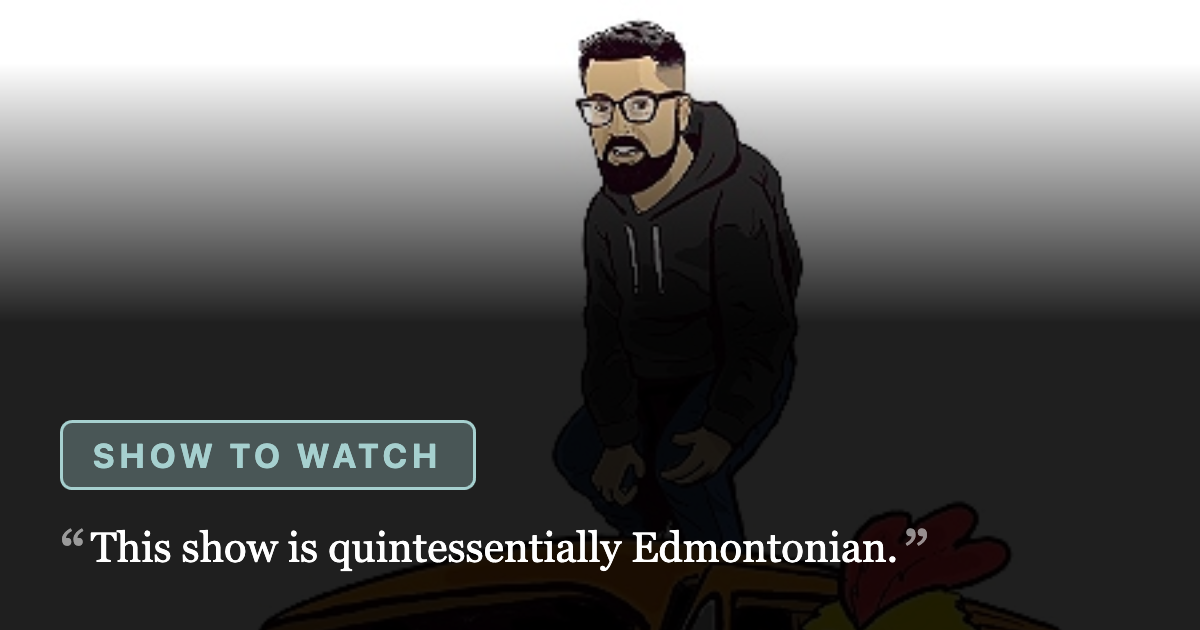
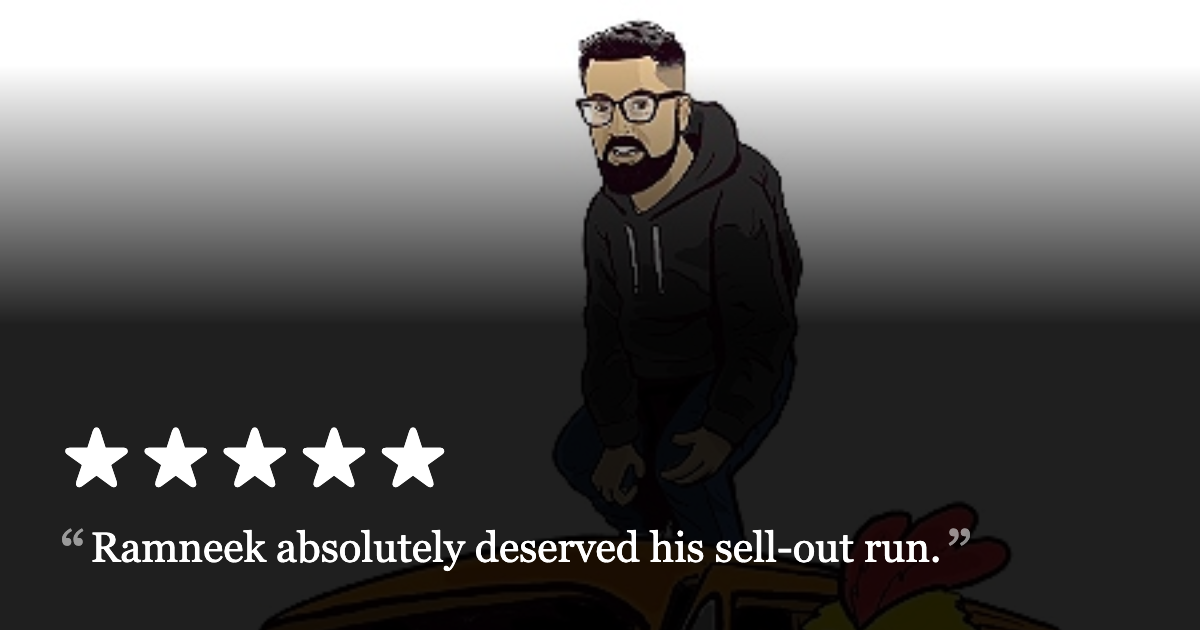
new reviews, filtering

Changed region(s): [[0.0617, 0.8444, 0.8325, 0.9048], [0.0308, 0.6635, 0.4008, 0.7841]]

diff --git a/resources/views/fringe/sold-out.antlers.html b/resources/views/fringe/sold-out.antlers.html
@@ -9,7 +9,9 @@
     rendered. All data comes pre-shaped from FringeController::soldOut; nothing here touches
     the ticket site. #}}
 <div class="pb-8 max-w-5xl mx-auto text-lg"
-    x-data="{ q: '', matchCount() { return [...this.$refs.list.children].filter(li => this.q.trim() === '' || (li.dataset.title || '').includes(this.q.trim().toLowerCase())).length } }">
+    x-data="{ q: '', hideSoldOut: false,
+        matches(el) { return (!this.hideSoldOut || el.dataset.soldOut !== '1') && (this.q.trim() === '' || (el.dataset.title || '').includes(this.q.trim().toLowerCase())) },
+        matchCount() { return [...this.$refs.list.children].filter(li => this.matches(li)).length } }">
     {{ partial:fringe/breadcrumbs }}
 
     <header class="mb-6">
@@ -38,11 +40,16 @@
 
     {{ partial:fringe/_availability-dates }}
 
-    <div class="mb-6">
+    <div class="mb-6 flex flex-wrap items-center gap-x-4 gap-y-2">
         <input type="search" x-model="q"
             placeholder="Filter shows by title&hellip;"
             aria-label="Filter shows by title"
             class="w-full sm:max-w-sm rounded-lg border border-gray-200 px-3 py-2 text-base text-gray-800 placeholder-gray-400 focus:border-teal focus:outline-none focus:ring-1 focus:ring-teal">
+
+        <label class="flex items-center gap-1.5 text-sm text-gray-600 cursor-pointer select-none">
+            <input type="checkbox" x-model="hideSoldOut" class="accent-teal">
+            Hide sold out runs
+        </label>
     </div>
 
     <div class="mb-8">
@@ -51,9 +58,12 @@
 
     <ul x-ref="list" class="list-none p-0 m-0 divide-y divide-gray-100 border-t border-b border-gray-100">
         {{ shows }}
+            {{# data-sold-out marks a run with nothing left to buy — every upcoming showtime
+                sold out. One sold-out matinee with seats elsewhere doesn't hide the show. #}}
             <li class="py-5"
                 data-title="{{ title | lower | sanitize }}"
-                x-show="q.trim() === '' || ($el.dataset.title || '').includes(q.trim().toLowerCase())">
+                data-sold-out="{{ if run_sold_out }}1{{ /if }}"
+                x-show="matches($el)">
                 {{# The refresh state (admin only) lives on this inner wrapper, not the <li>,
                     so it doesn't collide with the filter's x-show up there. #}}
                 <div {{ if reveal_numbers && has_data }}x-data="showRefresh('{{ event_id }}')"{{ /if }}>

diff --git a/resources/views/fringe/index.antlers.html b/resources/views/fringe/index.antlers.html
@@ -114,6 +114,13 @@
                     </select>
                 {{ /if }}
 
+                {{ if tickets_available }}
+                    <label class="flex items-center gap-1.5 text-sm text-gray-600 cursor-pointer select-none">
+                        <input type="checkbox" x-model="hideSoldOut" class="accent-teal">
+                        Hide sold out runs
+                    </label>
+                {{ /if }}
+
                 <span class="text-sm text-gray-500" aria-live="polite" x-show="filtering">
                     <span x-text="shown"></span> of {{ review_count }} shows
                 </span>
@@ -131,7 +138,12 @@
         <ul class="divide-y divide-gray-100 border-b border-gray-100">
             {{ reviews }}
                 {{# `relative` anchors the stretched title link that makes the whole row tappable. #}}
+                {{# data-sold-out marks a run with nothing left to buy: the availability
+                    collapsed to a single "Sold out" part. A show with one sold-out showtime
+                    but seats elsewhere ("Sold out / Available") stays visible under the
+                    hide-sold-out toggle. #}}
                 <li data-title="{{ title | sanitize }}" data-categories="{{ category_slugs }}"
+                    data-sold-out="{{ if availability == 'sold_out' && (availability_parts | length) == 1 }}1{{ /if }}"
                     class="relative py-3 sm:grid sm:grid-cols-12 sm:gap-4 sm:items-baseline hover:bg-grey-50 transition-colors">
                     <div class="sm:col-span-6 font-light">
                         <a href="{{ url }}" class="text-gray-800 no-underline before:absolute before:inset-0">{{ title }}</a>
@@ -168,7 +180,7 @@
         <p class="text-gray-500 py-4 mb-0" x-show="filtering && shown === 0" x-cloak>
             No shows match.
             <button type="button" class="text-teal underline bg-transparent border-0 p-0 cursor-pointer"
-                    @click="query = ''; category = ''">Clear filters</button>
+                    @click="query = ''; category = ''; hideSoldOut = false">Clear filters</button>
         </p>
     </div>
 

diff --git a/resources/js/site.js b/resources/js/site.js
@@ -107,15 +107,17 @@ Alpine.data('leaderboard', () => ({
 Alpine.data('reviewFilter', () => ({
     query: '',
     category: '',
+    hideSoldOut: false,
     shown: 0,
 
     get filtering() {
-        return this.query.trim() !== '' || this.category !== ''
+        return this.query.trim() !== '' || this.category !== '' || this.hideSoldOut
     },
 
     init() {
         this.$watch('query', () => this.apply())
         this.$watch('category', () => this.apply())
+        this.$watch('hideSoldOut', () => this.apply())
     },
 
     normalize(text) {
@@ -129,7 +131,8 @@ Alpine.data('reviewFilter', () => ({
         for (const row of this.$root.querySelectorAll('li[data-title]')) {
             const matches =
                 (!needle || this.normalize(row.dataset.title).includes(needle)) &&
-                (!this.category || row.dataset.categories.split(' ').includes(this.category))
+                (!this.category || row.dataset.categories.split(' ').includes(this.category)) &&
+                (!this.hideSoldOut || row.dataset.soldOut !== '1')
 
             // Not a `hidden` class, and not a plain inline style either: the rows carry
             // `sm:grid`, and the Tailwind config's `important: true` makes that

diff --git a/app/Http/Controllers/FringeController.php b/app/Http/Controllers/FringeController.php
@@ -341,6 +341,7 @@ class FringeController extends Controller
                         'has_data' => false,
                         'performances' => [],
                         'sold_out_count' => 0,
+                        'run_sold_out' => false,
                         'low_count' => 0,
                         'reduced_count' => 0,
                         'performance_count' => 0,
@@ -855,11 +856,12 @@ class FringeController extends Controller
      *
      * The label is a "slash status" reading scarcest-first: the part before the slash is the
      * worst single showtime (any performance sold out, else any the ticket site calls low),
-     * the part after is the run as a whole, banded on overall %-sold. "Low / Available" is a
-     * show with one nearly-gone matinee and plenty of seats otherwise — the old single tier
-     * called that whole run "Low", which overstated it. When the two parts agree (or there's
-     * no scarce showtime, or no seat data for the run half) the label collapses to one word.
-     * All showtimes gone is just "Sold out".
+     * the part after is the median per-showtime tier of what's still buyable. Sold-out
+     * showtimes already speak through the first half, so they're excluded from the median —
+     * the second half answers "if I can still get in, how easily?" — and even counts round
+     * toward the more available of the two middle showtimes, so real remaining seats are
+     * never overstated as scarcity. When the two parts agree (or there's no scarce showtime)
+     * the label collapses to one word. All showtimes gone is just "Sold out".
      *
      * The dot takes the scarcest part's colour, matching the label's leading word.
      *
@@ -901,22 +903,20 @@ class FringeController extends Controller
         $anyLow = $upcoming->contains(fn (array $p) => ($p['status'] ?? null) === TicketAvailability::LOW);
         $scarcest = $anySoldOut ? 'sold_out' : ($anyLow ? 'low' : null);
 
-        $withSeats = $upcoming->filter(fn (array $p) => ($p['seats_total'] ?? null) !== null);
-        $offered = $withSeats->sum('seats_total');
-        $pctSold = $offered > 0 ? ($offered - $withSeats->sum('seats_free')) / $offered * 100 : null;
-
-        // The run half needs seat data; without it the scarcest showtime is all we know.
-        $run = match (true) {
-            $pctSold === null => null,
-            $pctSold >= 80 => 'low',
-            $pctSold >= 60 => 'reduced',
-            default => 'available',
-        };
+        // Median of the still-buyable showtimes' tiers (shapePerformance owns the per-showtime
+        // rules, including the 60%-sold "reduced" upgrade). Sorted scarcest-first, the upper
+        // middle element is the median, which on even counts is the more available of the two.
+        $buyable = $upcoming
+            ->map(fn (array $p) => ShowAvailability::shapePerformance($p, false)['tier'])
+            ->reject(fn (string $tier) => $tier === 'sold_out')
+            ->sortBy(fn (string $tier) => ['low' => 0, 'reduced' => 1, 'available' => 2][$tier])
+            ->values();
+        $run = $buyable->get(intdiv($buyable->count(), 2));
 
         $labels = ['sold_out' => 'Sold out', 'low' => 'Low', 'reduced' => 'Reduced', 'available' => 'Available'];
 
-        if ($scarcest === null || $run === null || $scarcest === $run) {
-            $tier = $run ?? $scarcest ?? 'available';
+        if ($scarcest === null || $scarcest === $run) {
+            $tier = $run;
 
             return self::tierResult([['tier' => $tier, 'label' => $labels[$tier]]]);
         }

diff --git a/app/Fringe/ShowAvailability.php b/app/Fringe/ShowAvailability.php
@@ -56,6 +56,18 @@ class ShowAvailability
 
         $performances = $raw->map(fn (array $p) => self::shapePerformance($p, $revealNumbers));
 
+        // Whether there's nothing left to buy: at least one performance is still to come and
+        // every one of them is sold out. Judged on the raw statuses with the same time rule as
+        // shapePerformance (a minute past curtain a showtime stops counting), because the
+        // shaped rows keep past sold-outs as "Sold out" — artist cred, not a buying signal.
+        // Cancelled showtimes count neither way, and a run that's simply over isn't "sold
+        // out". Powers the hide-sold-out toggles.
+        $upcoming = $raw
+            ->reject(fn (array $p) => ($p['status'] ?? null) === TicketAvailability::CANCELLED)
+            ->reject(fn (array $p) => Carbon::parse($p['datetime'])->addMinute()->lte(Carbon::now()));
+        $runSoldOut = $upcoming->isNotEmpty()
+            && $upcoming->every(fn (array $p) => ($p['status'] ?? null) === TicketAvailability::SOLD_OUT);
+
         // Split chronologically into two halves so the desktop layout can show them as two
         // side-by-side columns — first half left, second half right. `chunk(ceil(n/2))` yields
         // [first half],[rest].
@@ -69,6 +81,7 @@ class ShowAvailability
             'performances_left' => ($columns->get(0) ?? collect())->values()->all(),
             'performances_right' => ($columns->get(1) ?? collect())->values()->all(),
             'sold_out_count' => $performances->where('sold_out', true)->count(),
+            'run_sold_out' => $runSoldOut,
             'low_count' => $performances->where('low', true)->count(),
             'reduced_count' => $performances->where('reduced', true)->count(),
             // Cancelled showtimes aren't part of "N of M performances sold out".

diff --git a/app/Console/Commands/FringeSoldOutReport.php b/app/Console/Commands/FringeSoldOutReport.php
@@ -86,12 +86,14 @@ class FringeSoldOutReport extends Command
         // Only shows that are actually due — never pulled, or pulled more than STALE_AFTER
         // hours ago — and never a show that's already completely sold out (it won't reopen).
         // The queue is stalest first: a composite sort key of "pulled_at|title" puts the
-        // never-pulled (empty timestamp) ahead of everything, then oldest data, then title.
+        // never-pulled ahead of everything, then oldest data, then title. Never-pulled must
+        // stand in as '0', not '' — an empty timestamp makes the key start with '|', which
+        // sorts AFTER every digit-leading timestamp, i.e. never-pulled dead last.
         // A plain single-key sort, deliberately — Collection::sortBy with an array of
         // closures silently sorts by the last one only, which had it ignoring staleness.
         $due = $shows->keys()
             ->filter(fn (string $eventId) => $this->isDue($eventId, $store))
-            ->sortBy(fn (string $eventId) => ($store[$eventId]['pulled_at'] ?? '').'|'.$shows[$eventId]->value('title'))
+            ->sortBy(fn (string $eventId) => (($store[$eventId]['pulled_at'] ?? null) ?: '0').'|'.$shows[$eventId]->value('title'))
             ->values();
 
         if ($due->isEmpty()) {

diff --git a/content/collections/fringe_reviews/2026-08-09.2026-the-butter-chicken-odyssey.md b/content/collections/fringe_reviews/2026-08-09.2026-the-butter-chicken-odyssey.md
@@ -10,38 +10,50 @@ categories:
 venue: 5abeb6e7-eba1-495f-986f-23af708fdbd4
 poster: fringe/the-butter-chicken-odyssey-poster.jpg
 festival: '2026'
-recommendation: watchlist
+recommendation: recommended
 companion_videos:
   - 47a88154-2219-49d1-b5a7-aa68275ae822
 updated_by: 9c6b6866-e047-4568-b3f4-71623caf17dd
-updated_at: 1786367559
+updated_at: 1787066022
 duration: 75
 og_image: fringe/og/2026-the-butter-chicken-odyssey.png
+stars: 5
 content:
   -
     type: paragraph
     content:
       - type: text
-        text: 'This show is quintessentially Edmontonian.'
+        text: 'Ramneek absolutely deserved his sell-out run.'
   -
     type: paragraph
     content:
       - type: text
-        text: 'Ramneek Singh set out on a years-long project to try – and rank – basically every Butter Chicken made by a restaurant in Edmonton.'
+        text: "I've seen a lot of artist's \"first fringe shows\". They are usually not very good. Not because the artist isn't talented, but Fringe is experimental. Shows are scrappy, and often need to be tested in front of audiences and refined."
   -
     type: paragraph
     content:
       - type: text
-        text: 'After two years, 51 Butter Chickens and, I assume, dozens of cautionary notes from his doctor, he finished the project.'
+        text: 'This show came right out of the (butter chicken) cooker, refined and ready to go.'
   -
     type: paragraph
     content:
       - type: text
-        text: 'And then, doing the most “Fringe” thing possible, he turned it into a quote “story about immigrant trauma, assimilation, and trying to find yourself in the meals people carry across oceans”.'
+        text: "This could have been Ram's 10th show. I'd believe it. The script was tightly written and escalated at a perfect pace. Ram deftly performed without stumbling, and when he adlibbed it felt natural and he stayed on track."
   -
     type: paragraph
     content:
       - type: text
-        text: "The run for this show is completely sold out before the festival begins, but I've got my tickets and I'm excited to give it a look."
-  - type: paragraph
+        text: 'It was funny, heartwarming, sad and, for a show about a 40-something guy eating butter chicken for two years, suprisingly horny.'
+  -
+    type: paragraph
+    content:
+      - type: text
+        text: "While you don't have a chance to see it this Fringe anymore, I would be "
+      -
+        type: text
+        marks:
+          - type: italic
+        text: shocked
+      - type: text
+        text: ' if this was never performed again. Keep an eye out.'
 ---

diff --git a/content/collections/fringe_reviews/2026-08-13.2026-rivercity-the-musical.md b/content/collections/fringe_reviews/2026-08-13.2026-rivercity-the-musical.md
@@ -12,19 +12,20 @@ festival: '2026'
 recommendation: watchlist
 duration: 65
 updated_by: 9c6b6866-e047-4568-b3f4-71623caf17dd
-updated_at: 1786469626
+updated_at: 1787067065
 og_image: fringe/og/2026-rivercity-the-musical.png
+stars: 2
 content:
   -
     type: paragraph
     content:
       - type: text
-        text: 'An Archie musical. Egad!'
+        text: 'The review litmus test for me is: "did I enjoy myself?". I can say here, that I did not.'
   -
     type: paragraph
     content:
       - type: text
-        text: "I didn't get to see the original premiere of this show nearly a decade ago, but I did catch a follow-up work from Dammitammy Productions, "
+        text: 'I loved'
       -
         type: btsPin
         attrs:
@@ -33,10 +34,32 @@ content:
             review: 84049419-19bb-4ecf-97da-895134ac684e
             type: review_ref
       - type: text
-        text: '. That show was a fever-dream masterpiece.'
+        text: ", so I was very excited for Rivercity, but for me the entire production did not land. It's got a live four-piece band which is "
+      -
+        type: text
+        marks:
+          - type: italic
+        text: incredible
+      - type: text
+        text: ', except that tech issues mean that basically any time the band was playing the vocals were completely washed out and inaudible. This was especially prevalent with the lead actress.'
   -
     type: paragraph
     content:
       - type: text
-        text: "If Rivercity is anything like Damitammy's previous production, it's going to be an absolute blast."
+        text: 'Maybe if I was a bigger Archie fan, the stilted script full of "Egad!" and "Awooga" and verbalizing "teehee" and "giggle" would have been more cute instead of grating. But I am not, and it was.'
+  -
+    type: paragraph
+    content:
+      - type: text
+        text: 'There were some legitimately funny jokes – "No, its a Taylor" landed really hard for me – and some of the farcical elements were a joy. But ultimately, even when you find a cup of water in the desert, you still die of thirst.'
+  -
+    type: paragraph
+    content:
+      - type: text
+        text: "Rebecca Merkley has done great stuff in the past, and has a clear technical talent, so I'll absolutely see her next work."
+  -
+    type: paragraph
+    content:
+      - type: text
+        text: 'But for me, this production was a whiff.'
 ---

diff --git a/content/collections/fringe_reviews/2026-08-17.2026-muttnik.md b/content/collections/fringe_reviews/2026-08-17.2026-muttnik.md
@@ -1,0 +1,47 @@
+---
+id: acd4b1c2-cdf8-494d-984a-61e385445632
+blueprint: fringe_review
+title: MUTTNIK
+ticket_link: 'https://tickets.fringetheatre.ca/event/601:7604/'
+artist: ce4be205-fd11-4d07-b34f-14c985641d3f
+categories:
+  - comedy
+  - drama
+venue: 8b70ded8-3b1e-444b-a7a2-233a51682773
+poster: fringe/muttnik-poster.jpg
+festival: '2026'
+recommendation: recommended
+duration: 60
+updated_by: 9c6b6866-e047-4568-b3f4-71623caf17dd
+updated_at: 1787066346
+og_image: fringe/og/2026-muttnik.png
+stars: 5
+content:
+  -
+    type: paragraph
+    content:
+      - type: text
+        text: 'Why am I crying at a dog with a Russian accent making bad puns?'
+  -
+    type: paragraph
+    content:
+      - type: text
+        text: 'I knew Bruce Costella was an excellent physical performer that could clown with the best of them. I did not know he could turn up the emotions high enough to reach orbit.'
+  -
+    type: paragraph
+    content:
+      - type: text
+        text: 'The show is a funny, silly show about a dog in space. There are plenty of jokes of varying degrees of cleverness (and he lets you know when he identifies one as '
+      -
+        type: text
+        marks:
+          - type: italic
+        text: clever
+      - type: text
+        text: ).
+  -
+    type: paragraph
+    content:
+      - type: text
+        text: "But, like every movie with a dog in it, you do end up crying for some reason. I don't know who made that rule, but it continues to hold here."
+---
